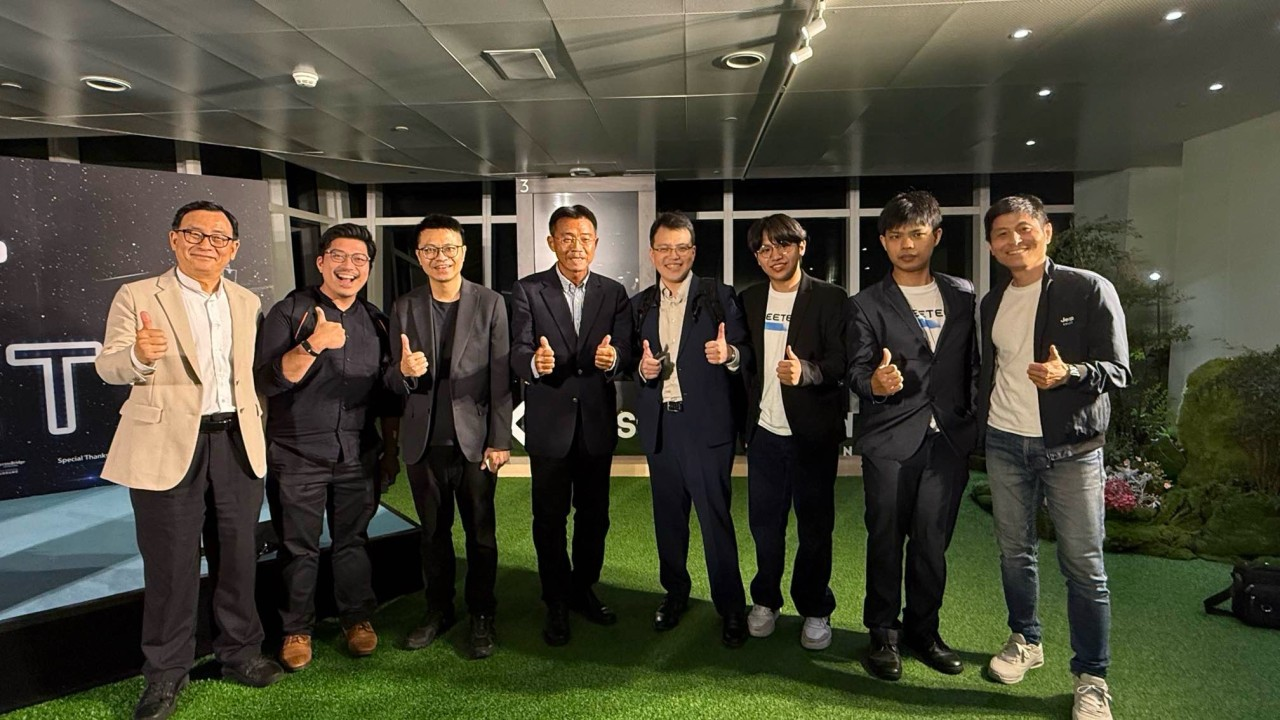
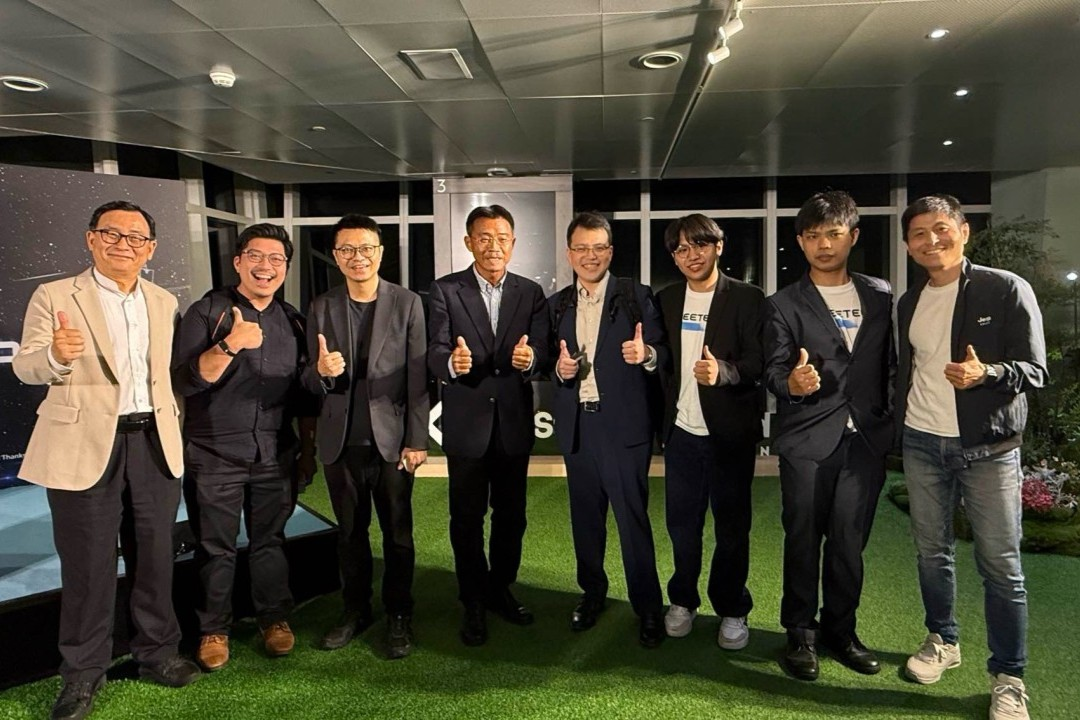
Reduce TwoPhotoGrid container width from 80% to 60%

diff --git a/src/components/TwoPhotoGrid.tsx b/src/components/TwoPhotoGrid.tsx
@@ -20,7 +20,7 @@ export function TwoPhotoGrid({
   rightCaption,
 }: TwoPhotoGridProps) {
   return (
-    <div className="w-3/5 mx-auto">
+    <div className="w-4/5 mx-auto">
       <div className="grid grid-cols-1 sm:grid-cols-2 gap-4 my-4 min-w-0">
       <figure className="m-0 min-w-0 overflow-hidden">
         <div className="overflow-hidden rounded-lg aspect-[4/3] bg-slate-100">
@@ -28,7 +28,6 @@ export function TwoPhotoGrid({
             src={leftSrc}
             alt={leftAlt}
             className="w-full h-full object-cover object-center rounded-lg"
-            style={{ objectFit: 'cover', objectPosition: 'center' }}
           />
         </div>
         <figcaption className="text-center text-slate-500 italic mt-2">
@@ -40,8 +39,7 @@ export function TwoPhotoGrid({
           <img
             src={rightSrc}
             alt={rightAlt}
-            className="w-full h-full object-cover object-bottom rounded-lg"
-            style={{ objectFit: 'cover', objectPosition: 'bottom' }}
+            className="w-full h-full object-cover object-center rounded-lg"
           />
         </div>
         <figcaption className="text-center text-slate-500 italic mt-2">